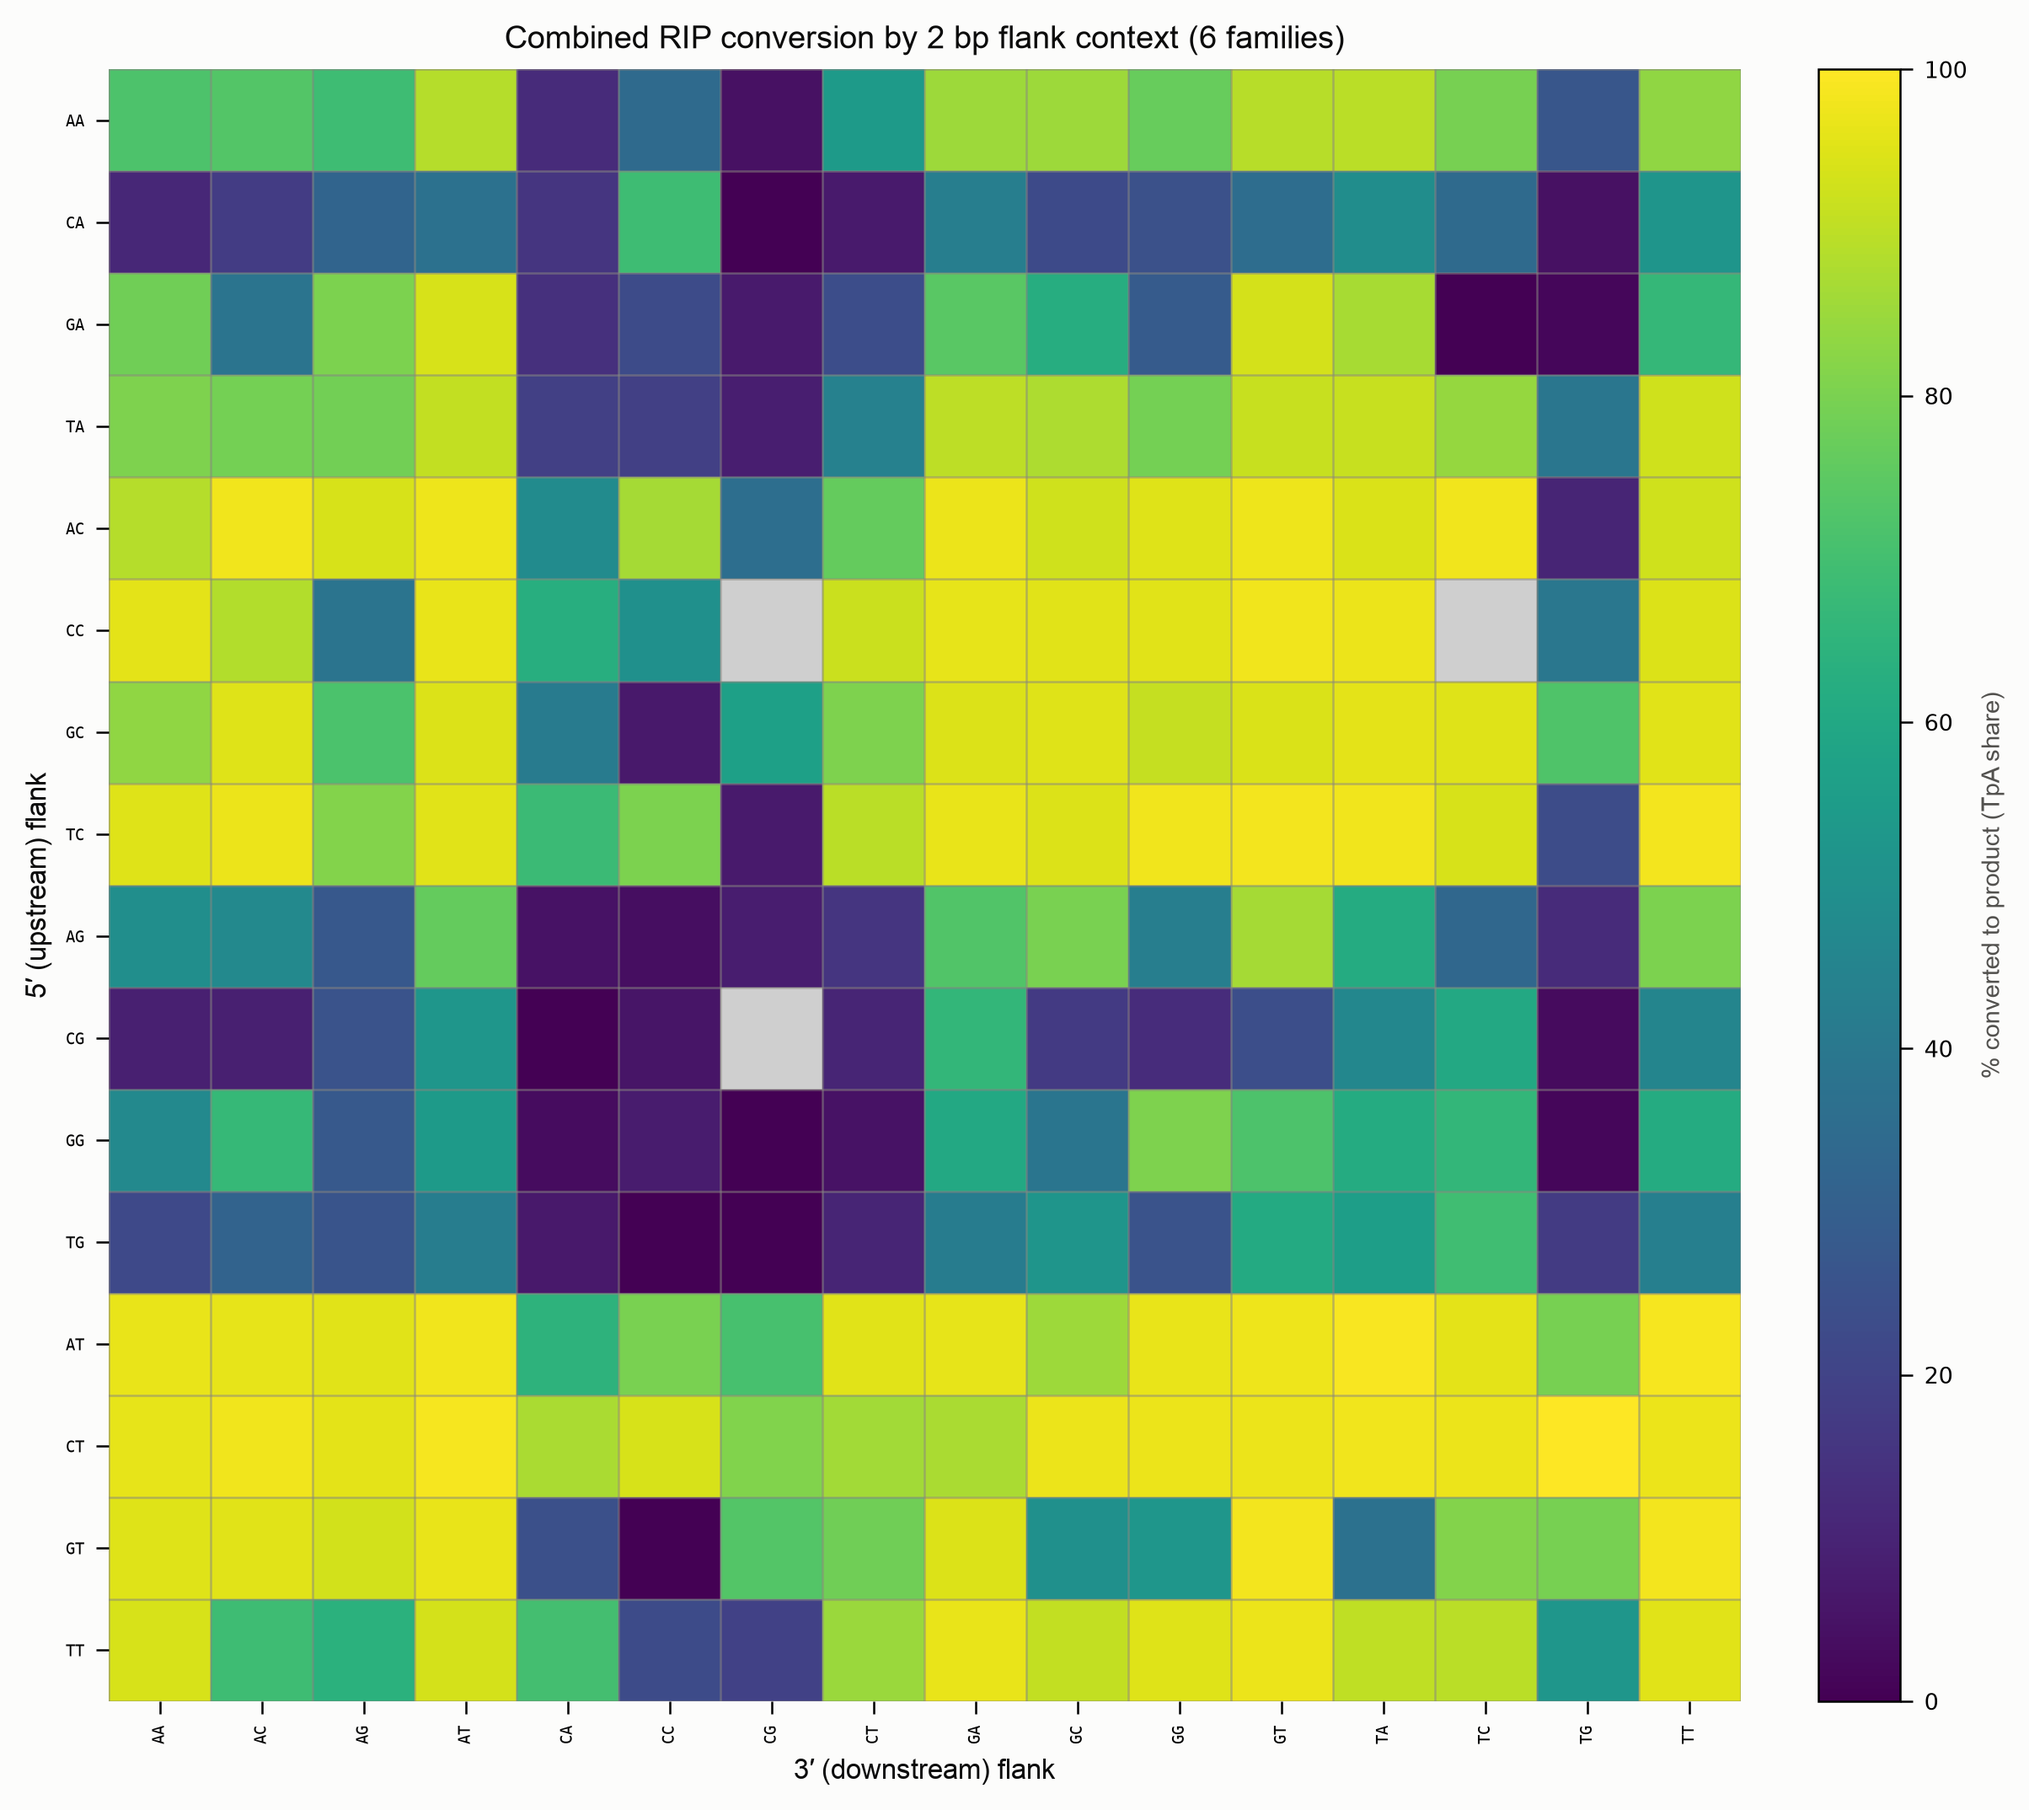
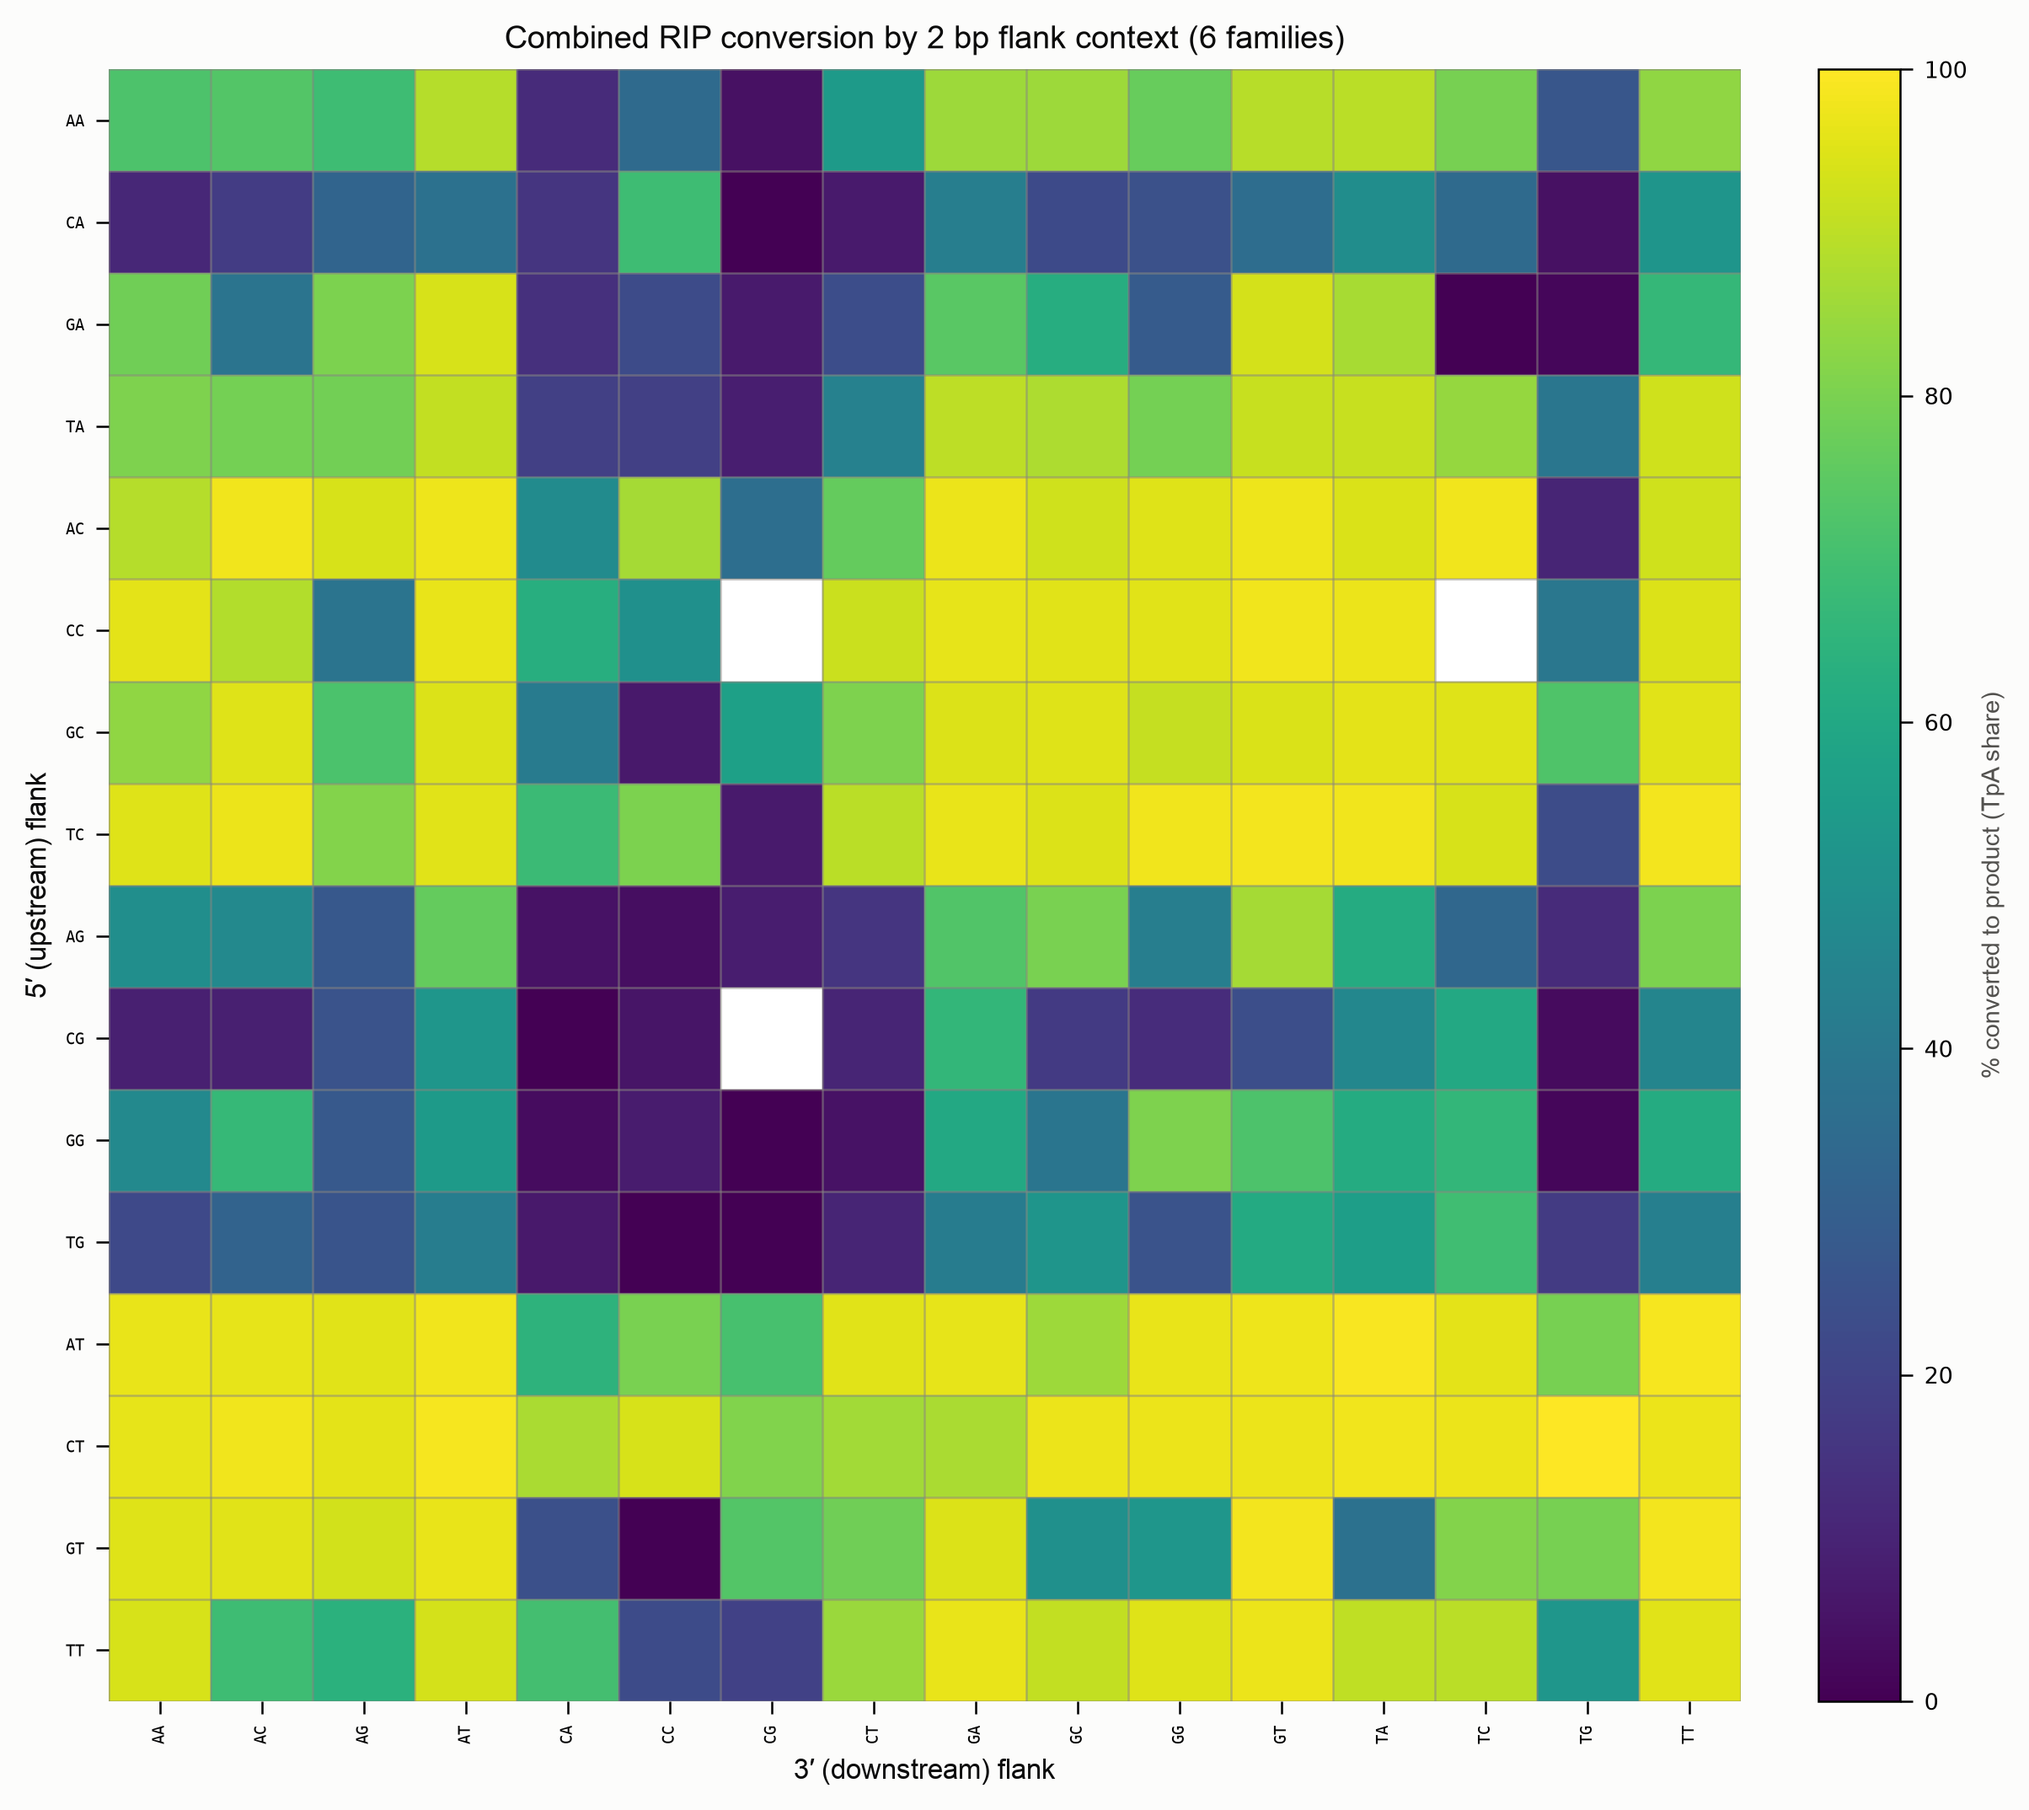
style: draw no-data heatmap cells white instead of grey
A motif seen zero times now reads as a hole in the grid rather than a filled
cell in a colour that means nothing on the scale. On the 3 bp map roughly half
the 4096 cells are blank, so this is a large part of what the figure shows.

White is safe here only because the default ramp is viridis, which is dark at
the low end and through the middle and reaches just #fde725 at its brightest --
0.86 away in sRGB. It would not be safe for a ramp with a near-white end
(ColorBrewer's YlOrBr starts at #ffffe5, 0.10 away), which is what the grey was
guarding against back when the default was such a ramp. That constraint is now
recorded next to the constant, and the existing test measures the no-data colour
against the whole default ramp, so a future default with a pale end fails rather
than silently shipping blanks that read as real cells.

Only the 2 bp and 3 bp docs figures changed; the 1 bp grids are fully populated
and are byte-identical.

Claude-Session: https://claude.ai/code/session_0134fabK7VFpSz1oAXtcXj1x

Changed region(s): [[0.6852, 0.3119, 0.7787, 0.3743], [0.3426, 0.5303, 0.4049, 0.6238], [0.3426, 0.3119, 0.4049, 0.3743]]

diff --git a/src/derip2/plotting/persequence.py b/src/derip2/plotting/persequence.py
@@ -89,18 +89,18 @@ MATCH_ALPHA = 0.3
 CONVERSION_CMAP_NAME = 'viridis'
 
 # Colour for no-data cells (a flank motif seen zero times), so they read as
-# absent rather than as a legitimate 0 %. A neutral grey, deliberately not the
-# figure surface: a ramp with a pale end (viridis ends at #fde725, and the
-# YlOrBr and magma_r defaults tried before it *began* at near-white) leaves a
-# surface-coloured blank indistinguishable from a real cell at that end -- and on
-# the 3 bp grid roughly half the cells are blank. Grey sits off this ramp by
-# ~0.60 in sRGB at its closest.
+# absent rather than as a legitimate 0 %. White reads as a hole in the grid,
+# which is what a motif with no observations is; on the 3 bp map roughly half the
+# 4096 cells are blank, so this is a large part of what the figure shows.
 #
-# If the default is ever changed to a ramp that itself passes through a light
-# grey (matplotlib's coolwarm, say, whose midpoint is #dddcdc), this needs
-# revisiting; ``test_no_data_colour_is_distinct_from_the_whole_ramp`` will fail
-# if it is not.
-NO_DATA_COLOR = '#cfcfcf'
+# White only works because the default ramp is dark at both the low end (#440154)
+# and through the middle, and reaches only #fde725 at its brightest -- 0.86 away
+# in sRGB. It is *not* safe for every colormap: a ramp with a near-white end
+# (ColorBrewer's YlOrBr starts at #ffffe5, 0.10 away) would render blanks
+# indistinguishable from real cells at that end. Changing the default to such a
+# ramp means revisiting this constant;
+# ``test_no_data_colour_is_distinct_from_the_whole_ramp`` fails if it is not.
+NO_DATA_COLOR = '#ffffff'
 
 CONVERSION_CMAP = plt.get_cmap(CONVERSION_CMAP_NAME).with_extremes(bad=NO_DATA_COLOR)
 

diff --git a/tests/test_flank_spectra_plot.py b/tests/test_flank_spectra_plot.py
@@ -355,10 +355,14 @@ def test_no_data_colour_is_distinct_from_the_whole_ramp():
     """A motif seen zero times cannot be mistaken for a real conversion value.
 
     Not just the ends: the no-data colour has to sit off the ramp at *every*
-    level. This is why it is a neutral grey rather than the figure surface —
-    YlOrBr starts at a near-white #ffffe5, only ~0.09 from the surface, and on
-    the 3 bp grid roughly half the cells are blank. A future default that itself
-    passes through a light grey (coolwarm's midpoint, say) would trip this.
+    level, and on the 3 bp grid roughly half the cells are blank, so this is a
+    large part of what the figure shows.
+
+    White is safe against the current viridis default (0.86 at its closest, the
+    yellow end) but would not be against every colormap — ColorBrewer's YlOrBr
+    starts at a near-white #ffffe5, 0.10 away. Changing the default to a ramp
+    with a near-white end trips this test rather than silently shipping blanks
+    that read as real cells.
     """
     import numpy as np
 

diff --git a/src/derip2/plotting/flank_spectra.py b/src/derip2/plotting/flank_spectra.py
@@ -607,8 +607,8 @@ def plot_flank_conversion_heatmap(
     substrate, through teal and green, to bright yellow where it has been fully
     converted. This encodes magnitude only — unlike the bihistograms, hue here
     does not name the substrate or product state. Cells for motifs seen zero
-    times are drawn in a neutral grey, so a blank is never mistaken for a low
-    conversion rate. Pass ``cmap`` to use a different palette.
+    times are left white, so a blank reads as a hole in the grid rather than a
+    low conversion rate. Pass ``cmap`` to use a different palette.
 
     Parameters
     ----------

diff --git a/src/derip2/persequence_report.py b/src/derip2/persequence_report.py
@@ -2200,7 +2200,7 @@ def _overview_html(
                 'target on the rows, the two bases 3&prime; on the columns, each '
                 'ordered nearest-base first). This shows whether the single-base '
                 'preference above is carried by the base immediately flanking the '
-                'RIP target or extends to the second base out; grey cells are '
+                'RIP target or extends to the second base out; white cells are '
                 'motifs absent from the alignment.</p>'
                 f'<div class="spectrum-scroll">{flank2_heat_svg}</div>'
             )

diff --git a/docs/tutorials/per-sequence-reporting.md b/docs/tutorials/per-sequence-reporting.md
@@ -137,7 +137,7 @@ laid out by the base(s) 5′ (rows) and 3′ (columns) of the target. Both a **1
 single-base preference (e.g. a protective 3′ cytosine) is carried by the immediately
 flanking base or extends further out. Cells run **dark purple** where the motif
 still holds its substrate, through teal and green, to **bright yellow** where it has
-been fully converted (`viridis`), with motifs seen zero times in grey; this is a
+been fully converted (`viridis`), with motifs seen zero times left white; this is a
 magnitude scale, so unlike the bihistograms the hue does not name the substrate or
 product state. See the
 [Flank-context Spectra (API)](flank-context-spectra.md#flank-interaction-conversion-heatmap)

diff --git a/docs/tutorials/flank-context-spectra.md b/docs/tutorials/flank-context-spectra.md
@@ -134,8 +134,8 @@ substrate, through teal and green, to **bright yellow** where it has been fully
 converted.
 Note this is a *magnitude* scale — unlike the bihistograms, where blue and orange
 name the substrate and product states, hue here only tracks how far the conversion
-has gone. Motifs seen zero times are drawn in a neutral **grey**, so a blank cell is
-never mistaken for a low conversion rate (on the 3 bp grid roughly half the cells are
+has gone. Motifs seen zero times are left **white**, reading as a hole in the grid
+rather than a low conversion rate (on the 3 bp grid roughly half the cells are
 blank).
 
 Pass `cmap` to restyle the scale. It accepts any registered matplotlib colormap name
